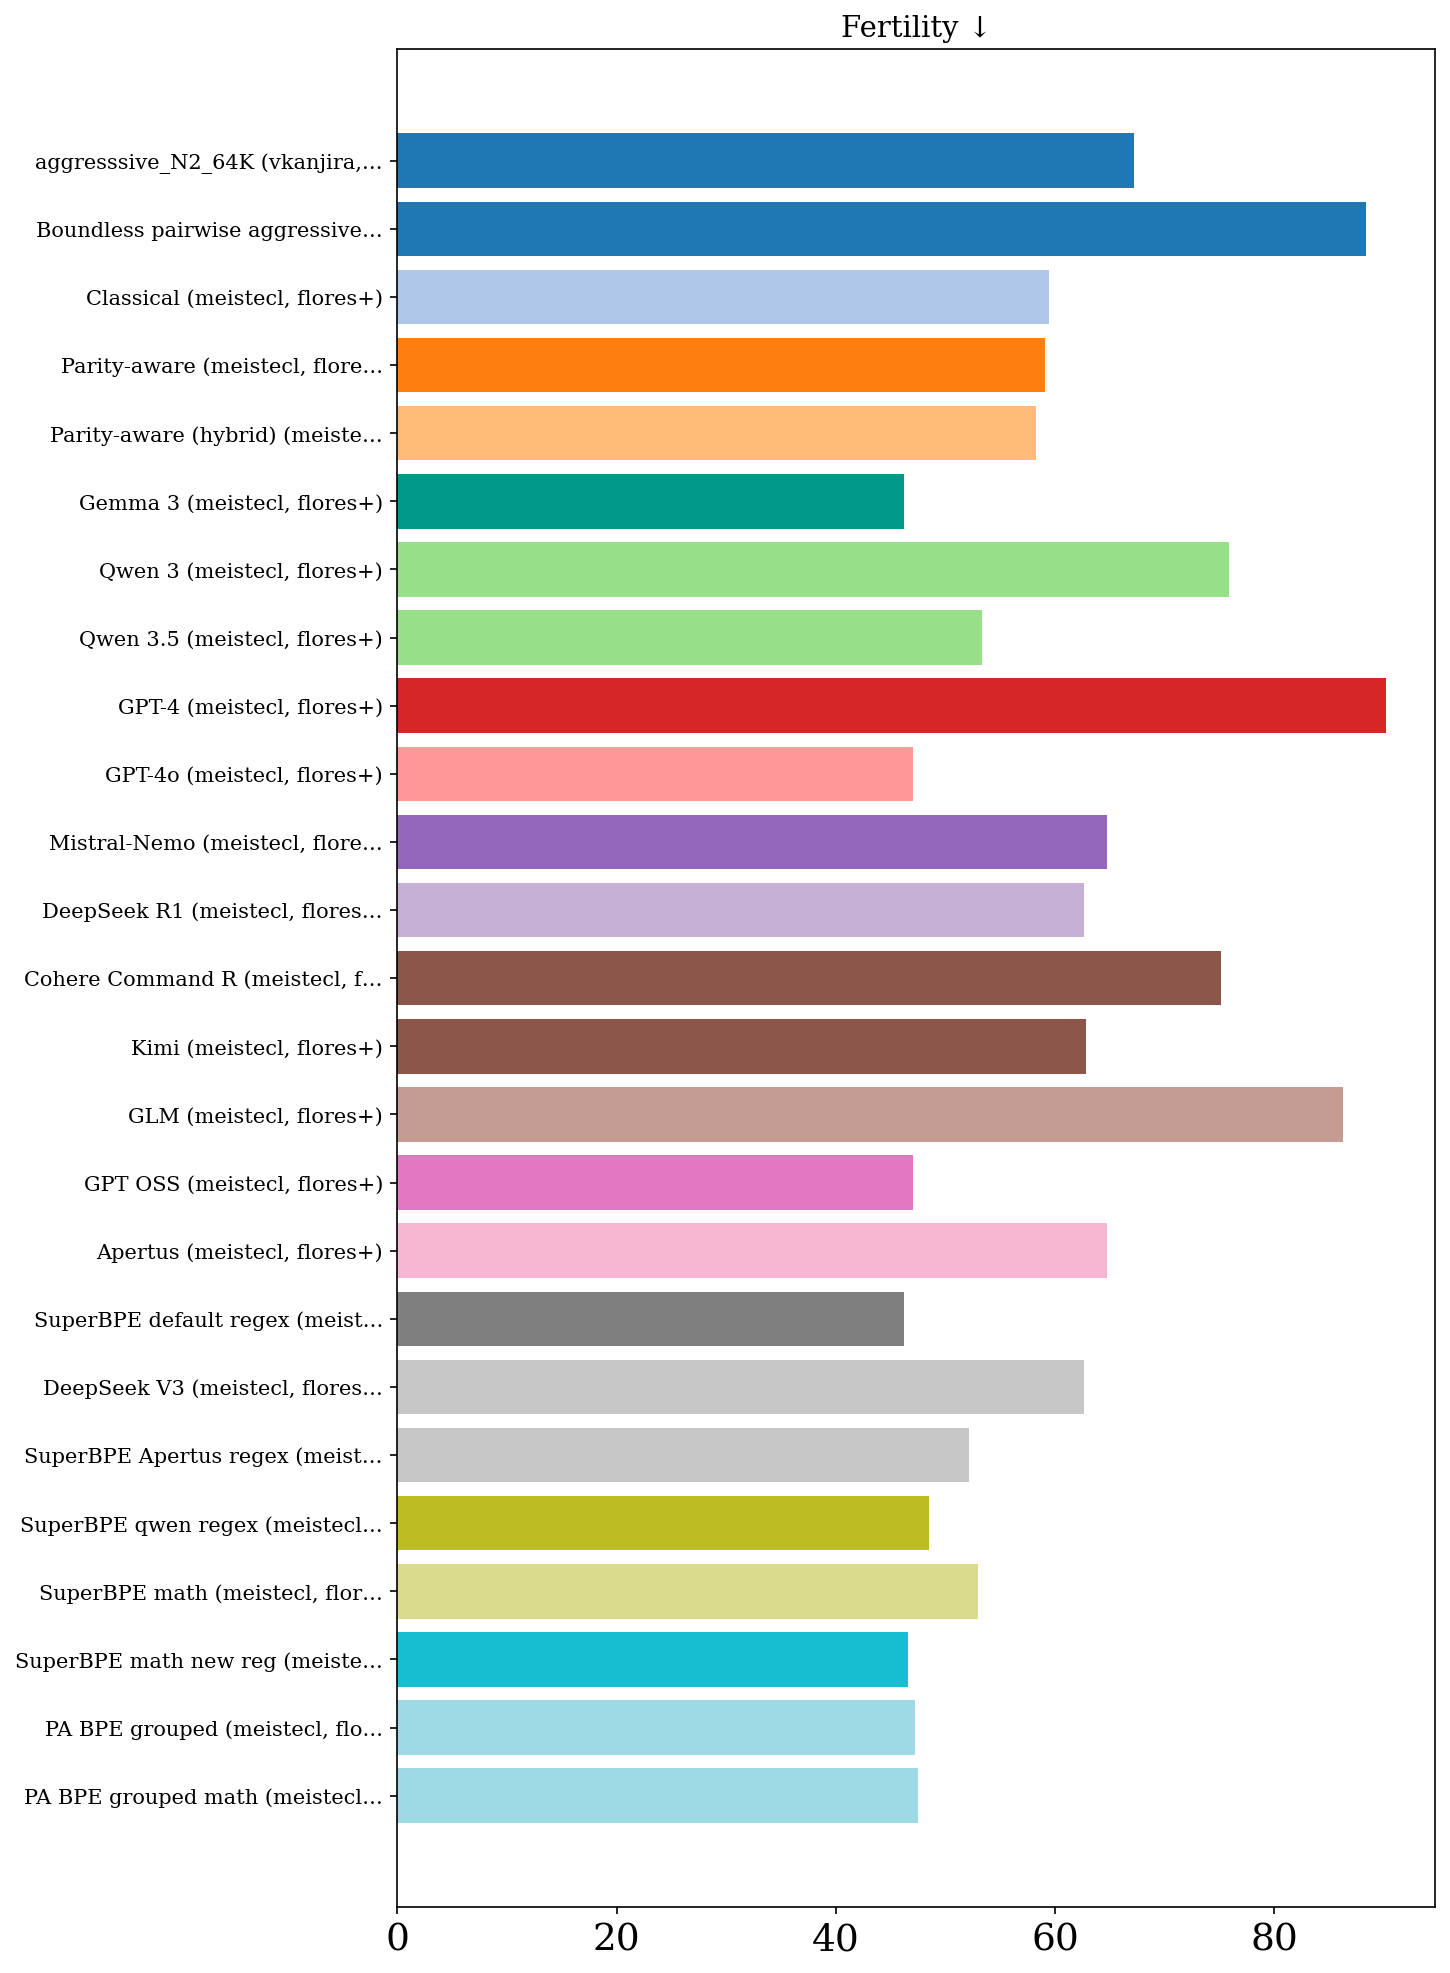
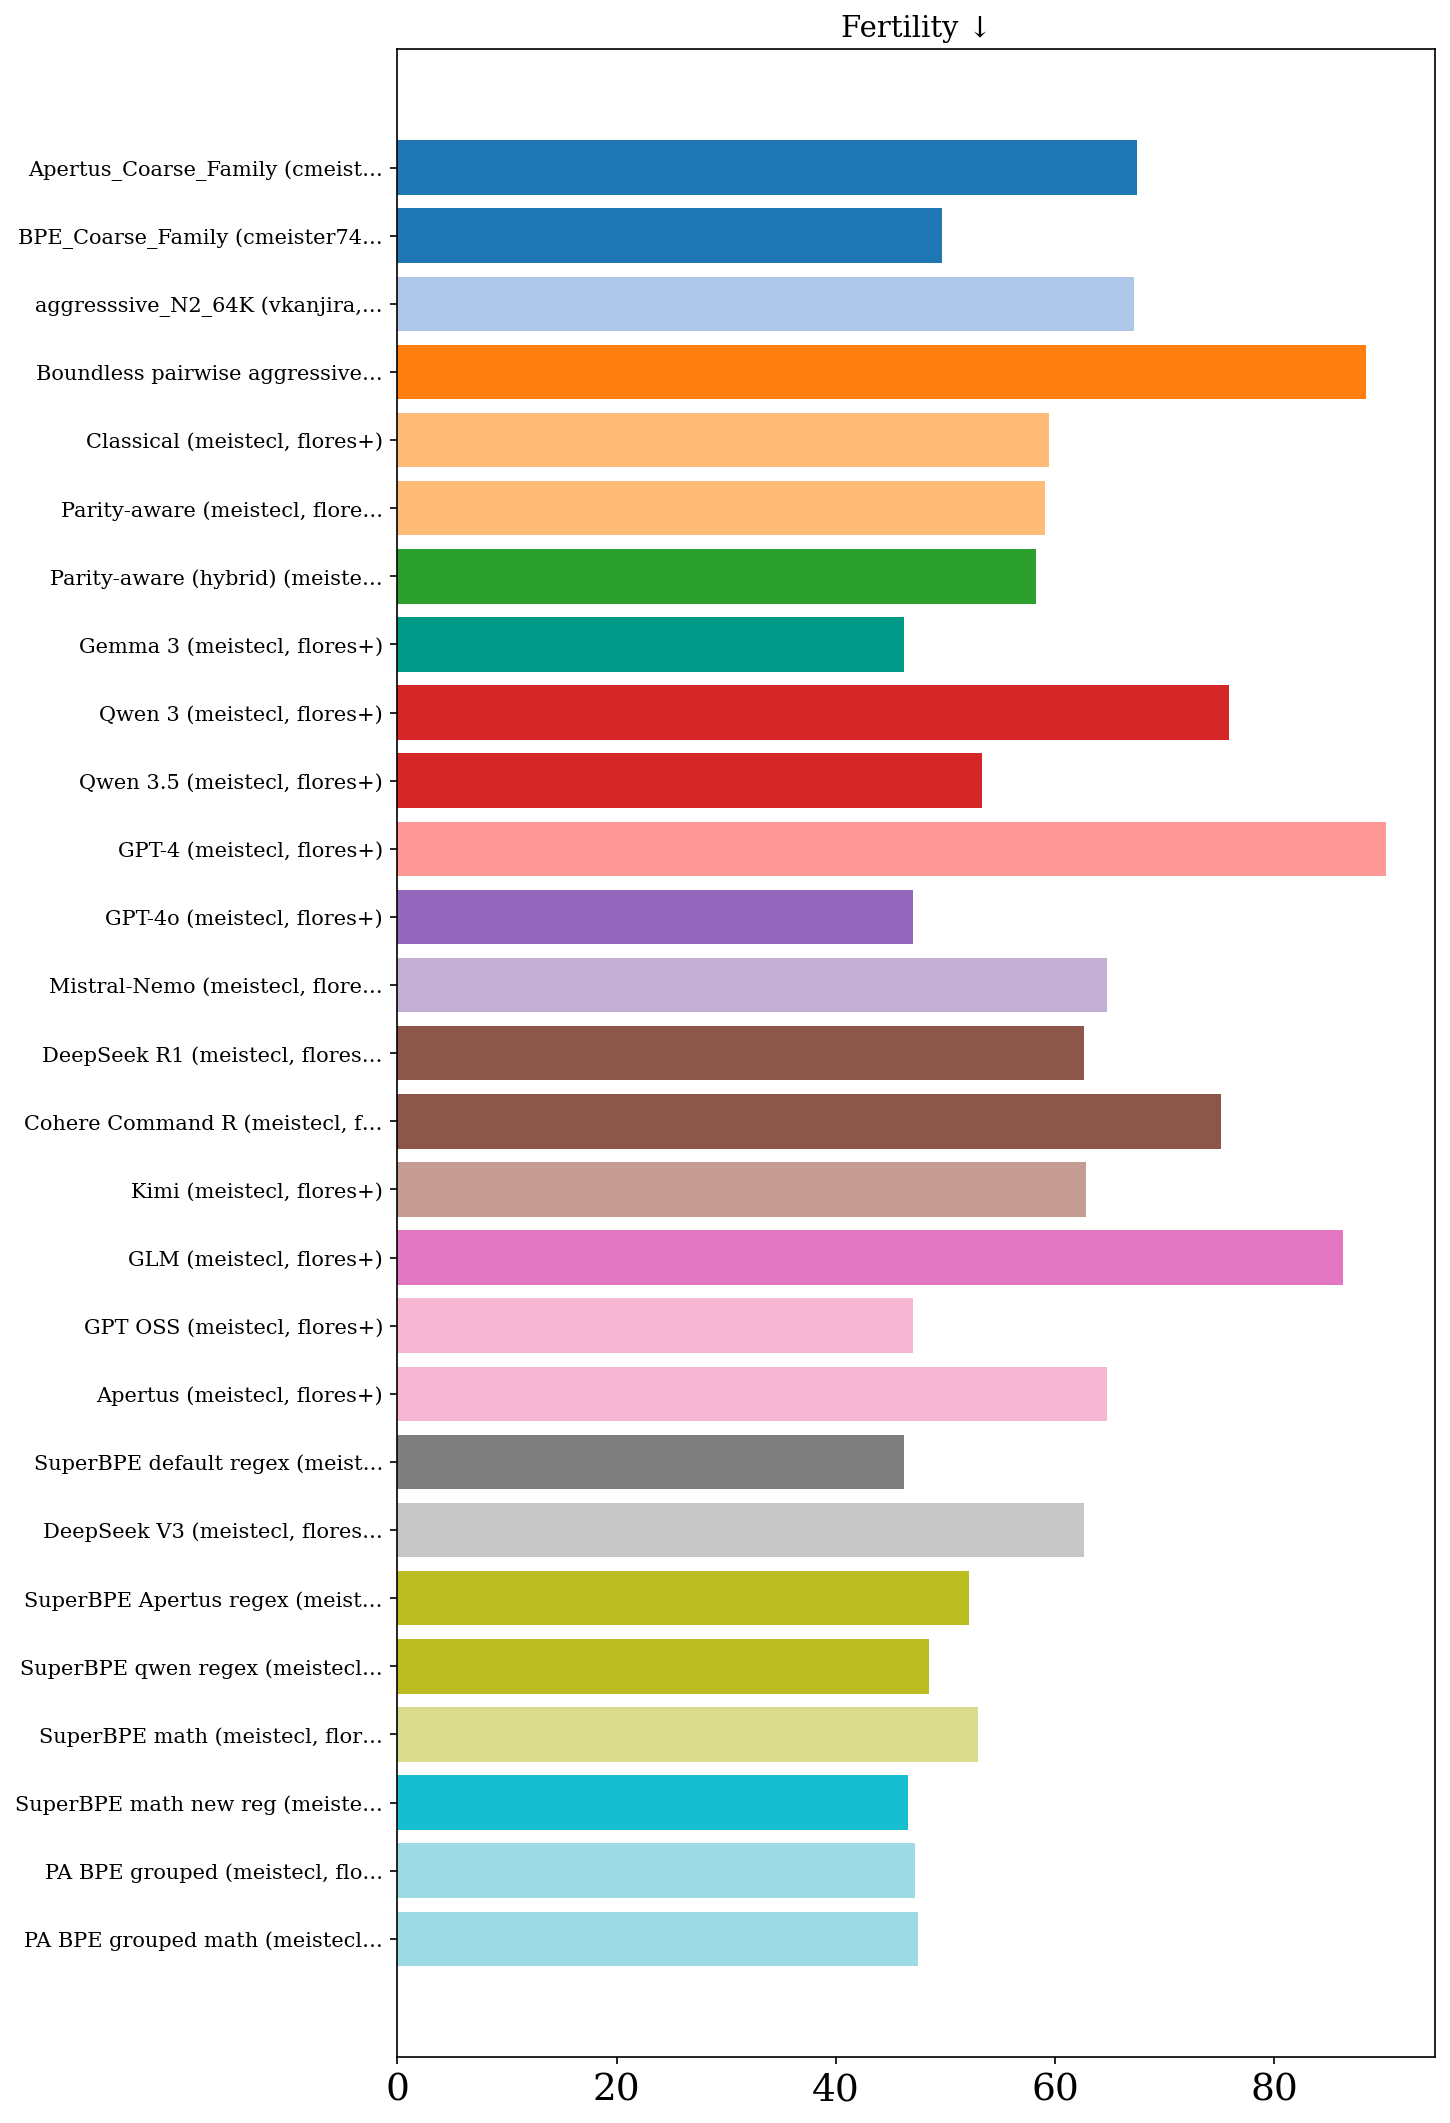
Update RESULTS_flores+_lines.md (2026-03-07 18:23:37)

diff --git a/RESULTS_flores+_lines.md b/RESULTS_flores+_lines.md
@@ -1,31 +1,33 @@
 # Tokenizer Evaluation Results
 
-_Last updated: 2026-03-07 18:18:58_
+_Last updated: 2026-03-07 18:23:40_
 
-| Tokenizer | Vocab Size | Fertility | Compression Rate | Vocab Util. | Avg Token Rank | Gini | 3-Digit Align. F1 | Op. Isolation | AST Align. | Ident. Frag. | Depth Corr. | Pat. Stability | Bound. Cross | Char Split | Languages | Dataset | User | Date |
+| Tokenizer | Vocab Size | Fertility ↓ | Compression Rate ↑ | Vocab Util. ↑ | Avg Token Rank ↓ | Gini ↓ | 3-Digit Align. F1 ↑ | Op. Isolation ↑ | AST Align. ↑ | Ident. Frag. ↓ | Depth Corr. ↑ | Pat. Stability ↑ | Bound. Cross ↓ | Char Split ↓ | Languages | Dataset | User | Date |
 | --- | --- | --- | --- | --- | --- | --- | --- | --- | --- | --- | --- | --- | --- | --- | --- | --- | --- | --- |
-| aggresssive_N2_64K (vkanjira, flores+) | 60,682 | 67.253 | 0.018 | 0.354 | 893.1 | 0.129 | 0.681 | 0.077 | 0.922 | 0.561 | --- | 1.000 | 0.0000 | 0.0049 | 92 | flores+ | vkanjira | 2026-03-06 |
-| Boundless pairwise aggressive n2 (dkletz, flores+) | 5,033 | 88.335 | 0.013 | 0.644 | 108.7 | 0.082 | --- | 0.047 | --- | --- | --- | --- | --- | --- | 92 | flores+ | dkletz | 2026-02-22 |
+| Apertus_Coarse_Family (cmeister747, flores+) | 131,072 | 67.487 | 0.015 | 0.560 | 4016.1 | 0.302 | --- | 0.249 | 0.065 | 0.033 | -0.039 | 0.997 | 0.0096 | 0.1499 | 92 | flores+ | cmeister747 | 2026-03-06 |
+| BPE_Coarse_Family (cmeister747, flores+) | 131,072 | 49.707 | 0.020 | 0.543 | 7585.0 | 0.096 | 0.335 | 0.494 | 0.724 | 0.434 | -0.039 | 0.997 | 0.0068 | 0.0111 | 92 | flores+ | cmeister747 | 2026-03-06 |
+| aggresssive_N2_64K (vkanjira, flores+) | 60,682 | 67.253 | 0.018 | 0.354 | 893.1 | 0.129 | 0.681 | 0.077 | **0.922** | 0.561 | --- | **1.000** | **0.0000** | 0.0049 | 92 | flores+ | vkanjira | 2026-03-06 |
+| Boundless pairwise aggressive n2 (dkletz, flores+) | 5,033 | 88.335 | 0.013 | 0.644 | **108.7** | 0.082 | --- | 0.047 | --- | --- | --- | --- | --- | --- | 92 | flores+ | dkletz | 2026-02-22 |
 | Classical (meistecl, flores+) | 128,004 | 59.463 | 0.022 | 0.682 | 4663.5 | 0.246 | 0.789 | 0.294 | 0.148 | 0.055 | -0.049 | 0.991 | 0.0574 | 0.1337 | 92 | flores+ | meistecl | 2026-03-03 |
-| Parity-aware (meistecl, flores+) | 128,004 | 59.101 | 0.022 | 0.691 | 4456.6 | 0.220 | 0.736 | 0.294 | 0.188 | 0.082 | -0.049 | 0.991 | 0.0440 | 0.1106 | 92 | flores+ | meistecl | 2026-03-03 |
+| Parity-aware (meistecl, flores+) | 128,004 | 59.101 | 0.022 | **0.691** | 4456.6 | 0.220 | 0.736 | 0.294 | 0.188 | 0.082 | -0.049 | 0.991 | 0.0440 | 0.1106 | 92 | flores+ | meistecl | 2026-03-03 |
 | Parity-aware (hybrid) (meistecl, flores+) | 128,004 | 58.267 | 0.022 | 0.691 | 4640.4 | 0.223 | 0.771 | 0.294 | 0.160 | 0.066 | -0.049 | 0.991 | 0.0450 | 0.1107 | 92 | flores+ | meistecl | 2026-03-03 |
-| Gemma 3 (meistecl, flores+) | 262,145 | 46.221 | 0.026 | 0.447 | 9461.6 | 0.126 | 0.451 | 0.509 | 0.088 | 0.030 | -0.091 | 0.965 | 0.0293 | 0.0110 | 92 | flores+ | meistecl | 2026-03-03 |
+| Gemma 3 (meistecl, flores+) | 262,145 | **46.221** | 0.026 | 0.447 | 9461.6 | 0.126 | 0.451 | 0.509 | 0.088 | 0.030 | -0.091 | 0.965 | 0.0293 | 0.0110 | 92 | flores+ | meistecl | 2026-03-03 |
 | Qwen 3 (meistecl, flores+) | 151,669 | 75.897 | 0.020 | 0.324 | 1699.6 | 0.312 | 0.451 | 0.966 | 0.605 | 0.383 | -0.037 | 0.994 | 0.0561 | 0.2422 | 92 | flores+ | meistecl | 2026-03-03 |
 | Qwen 3.5 (meistecl, flores+) | 248,077 | 53.347 | 0.024 | 0.387 | 5435.7 | 0.204 | 0.451 | 0.966 | 0.680 | 0.381 | -0.037 | 0.994 | 0.0096 | 0.0352 | 92 | flores+ | meistecl | 2026-03-03 |
 | GPT-4 (meistecl, flores+) | 100,261 | 90.200 | 0.018 | 0.302 | 917.5 | 0.362 | 0.793 | 0.966 | 0.605 | 0.383 | -0.037 | 0.994 | 0.0517 | 0.4671 | 92 | flores+ | meistecl | 2026-03-03 |
-| GPT-4o (meistecl, flores+) | 200,000 | 47.045 | 0.027 | 0.522 | 9529.8 | 0.169 | 0.793 | 0.966 | 0.609 | 0.401 | -0.037 | 0.994 | 0.0078 | 0.0475 | 92 | flores+ | meistecl | 2026-03-03 |
+| GPT-4o (meistecl, flores+) | 200,000 | 47.045 | **0.027** | 0.522 | 9529.8 | 0.169 | 0.793 | 0.966 | 0.609 | 0.401 | -0.037 | 0.994 | 0.0078 | 0.0475 | 92 | flores+ | meistecl | 2026-03-03 |
 | Mistral-Nemo (meistecl, flores+) | 131,072 | 64.763 | 0.023 | 0.564 | 4318.1 | 0.308 | 0.451 | 0.496 | 0.060 | 0.037 | -0.037 | 0.994 | 0.0171 | 0.1525 | 92 | flores+ | meistecl | 2026-03-03 |
 | DeepSeek R1 (meistecl, flores+) | 128,815 | 62.674 | 0.021 | 0.418 | 2864.6 | 0.229 | 0.793 | 0.496 | 0.000 | --- | -0.037 | 0.994 | 0.0509 | 0.0103 | 92 | flores+ | meistecl | 2026-03-03 |
 | Cohere Command R (meistecl, flores+) | 255,029 | 75.168 | 0.022 | 0.433 | 3397.6 | 0.371 | 0.451 | 0.509 | 0.032 | 0.016 | -0.037 | 0.994 | 0.0474 | 0.0008 | 92 | flores+ | meistecl | 2026-03-03 |
 | Kimi (meistecl, flores+) | 163,840 | 62.820 | 0.020 | 0.244 | 2283.0 | 0.199 | 0.793 | 0.966 | 0.609 | 0.408 | -0.037 | 0.994 | 0.0498 | 0.1139 | 92 | flores+ | meistecl | 2026-03-03 |
-| GLM (meistecl, flores+) | 151,343 | 86.320 | 0.019 | 0.364 | 1631.6 | 0.372 | 0.644 | 0.000 | 0.001 | 0.000 | 0.000 | 1.000 | 0.0000 | 0.0000 | 92 | flores+ | meistecl | 2026-03-03 |
+| GLM (meistecl, flores+) | 151,343 | 86.320 | 0.019 | 0.364 | 1631.6 | 0.372 | 0.644 | 0.000 | 0.001 | **0.000** | **0.000** | 1.000 | 0.0000 | **0.0000** | 92 | flores+ | meistecl | 2026-03-03 |
 | GPT OSS (meistecl, flores+) | 200,019 | 47.045 | 0.027 | 0.521 | 9529.8 | 0.169 | 0.793 | 0.966 | 0.609 | 0.401 | -0.037 | 0.994 | 0.0078 | 0.0475 | 92 | flores+ | meistecl | 2026-03-03 |
 | Apertus (meistecl, flores+) | 131,072 | 64.763 | 0.023 | 0.564 | 4318.1 | 0.308 | 0.451 | 0.496 | 0.060 | 0.037 | -0.037 | 0.994 | 0.0171 | 0.1525 | 92 | flores+ | meistecl | 2026-03-03 |
 | SuperBPE default regex (meistecl, flores+) | 130,000 | 46.224 | 0.025 | 0.553 | 9333.4 | 0.106 | 0.793 | 0.407 | 0.225 | 0.028 | -0.037 | 0.994 | 0.0206 | 0.0249 | 92 | flores+ | meistecl | 2026-03-03 |
 | DeepSeek V3 (meistecl, flores+) | 128,815 | 62.674 | 0.021 | 0.418 | 2864.6 | 0.229 | 0.793 | 0.496 | 0.000 | --- | -0.037 | 0.994 | 0.0509 | 0.0103 | 92 | flores+ | meistecl | 2026-03-03 |
-| SuperBPE Apertus regex (meistecl, flores+) | 130,000 | 52.158 | 0.024 | 0.593 | 7591.0 | 0.192 | 0.793 | 0.992 | 0.259 | 0.029 | -0.037 | 0.994 | 0.0085 | 0.0139 | 92 | flores+ | meistecl | 2026-03-03 |
+| SuperBPE Apertus regex (meistecl, flores+) | 130,000 | 52.158 | 0.024 | 0.593 | 7591.0 | 0.192 | 0.793 | **0.992** | 0.259 | 0.029 | -0.037 | 0.994 | 0.0085 | 0.0139 | 92 | flores+ | meistecl | 2026-03-03 |
 | SuperBPE qwen regex (meistecl, flores+) | 130,000 | 48.526 | 0.024 | 0.572 | 9524.6 | 0.097 | 0.451 | 0.407 | 0.284 | 0.024 | -0.031 | 0.995 | 0.0292 | 0.0332 | 92 | flores+ | meistecl | 2026-03-03 |
 | SuperBPE math (meistecl, flores+) | 130,000 | 52.985 | 0.024 | 0.543 | 6733.8 | 0.190 | 0.793 | 0.992 | 0.264 | 0.028 | -0.037 | 0.994 | 0.0092 | 0.0126 | 92 | flores+ | meistecl | 2026-03-03 |
-| SuperBPE math new reg (meistecl, flores+) | 130,000 | 46.554 | 0.025 | 0.539 | 8783.4 | 0.112 | 0.891 | 0.263 | 0.230 | 0.027 | -0.037 | 0.994 | 0.0218 | 0.0242 | 92 | flores+ | meistecl | 2026-03-03 |
-| PA BPE grouped (meistecl, flores+) | 120,260 | 47.187 | 0.024 | 0.632 | 8240.1 | 0.064 | 0.722 | 0.294 | 0.159 | 0.067 | -0.049 | 0.991 | 0.0173 | 0.0205 | 92 | flores+ | meistecl | 2026-03-03 |
+| SuperBPE math new reg (meistecl, flores+) | 130,000 | 46.554 | 0.025 | 0.539 | 8783.4 | 0.112 | **0.891** | 0.263 | 0.230 | 0.027 | -0.037 | 0.994 | 0.0218 | 0.0242 | 92 | flores+ | meistecl | 2026-03-03 |
+| PA BPE grouped (meistecl, flores+) | 120,260 | 47.187 | 0.024 | 0.632 | 8240.1 | **0.064** | 0.722 | 0.294 | 0.159 | 0.067 | -0.049 | 0.991 | 0.0173 | 0.0205 | 92 | flores+ | meistecl | 2026-03-03 |
 | PA BPE grouped math (meistecl, flores+) | 128,260 | 47.533 | 0.024 | 0.606 | 8064.2 | 0.074 | 0.451 | 0.496 | 0.094 | 0.050 | -0.037 | 0.994 | 0.0142 | 0.0242 | 92 | flores+ | meistecl | 2026-03-03 |
